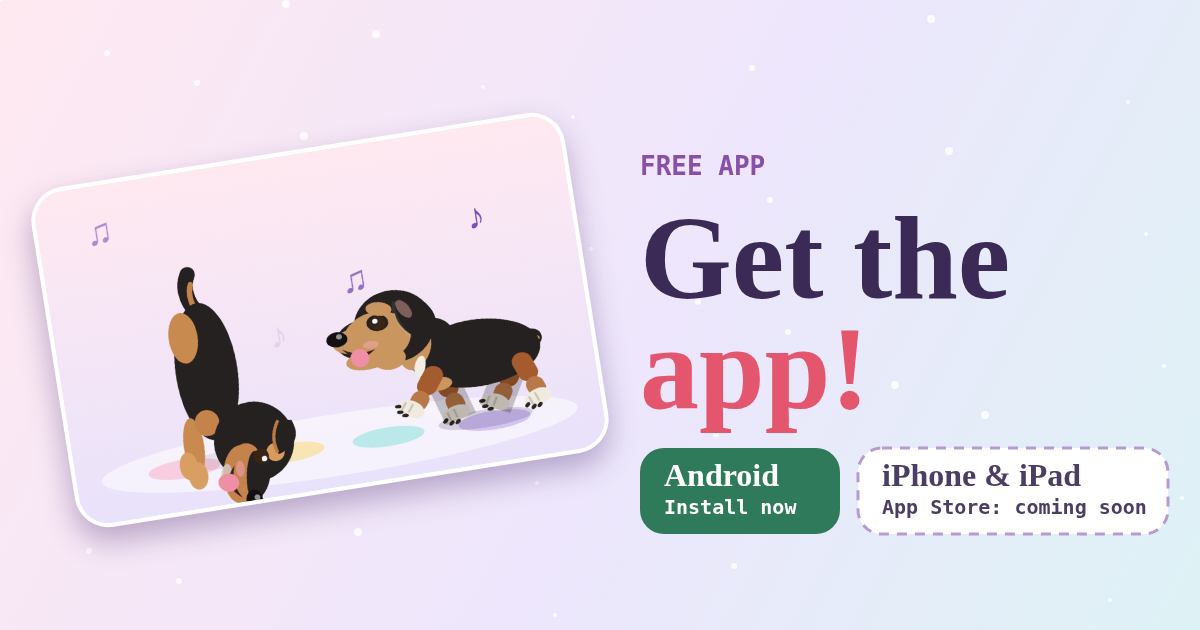
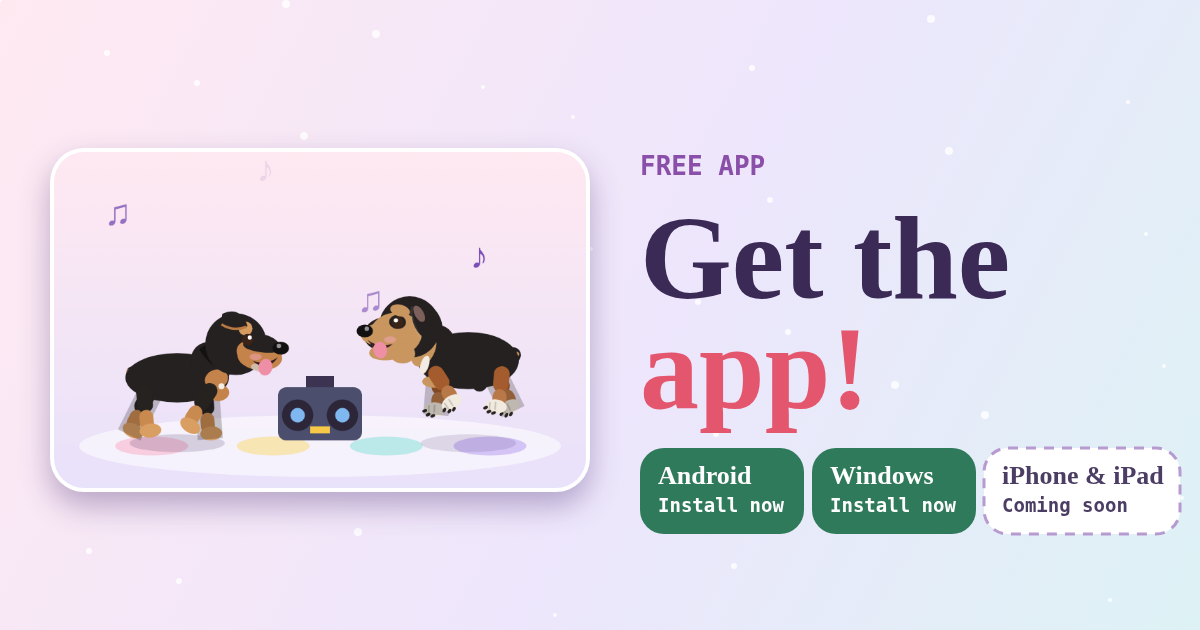
Get-the-app ad: straight picture, pups keep to their own sides of a boombox and do four different moves; tablet, laptop and desktop pass (On this page outline, keyboard shortcuts, roomier touch targets); desktop window launch settings
Claude-Session: https://claude.ai/code/session_01F11x81sfGg3qnfmPYFW4i1

diff --git a/assets/js/wide-screens.js b/assets/js/wide-screens.js
@@ -1,0 +1,132 @@
+/* wide-screens.js — a better fit for tablets, laptops and desktops (and for the installed Windows or Mac window).
+   Everything here is optional and adds to the page; with it off, every page still reads the same on a phone.
+   - On a big screen, long pages get a small "On this page" outline that sits beside the reading column, follows
+     your place with a highlight, and jumps to a section on click. It is built from the page's own h2 headings.
+   - With a keyboard: "/" opens search, "?" lists the shortcuts, "g" then "h" goes home, "g" then "s" to Start here,
+     "g" then "a" to Ask Professor Puddles, "b" opens Breathe, "a" opens Professor Puddles here, "q" toggles Quiet.
+     Shortcuts never fire while you are typing, and they are skipped on pages with their own controls (games,
+     cartoons, the teaser, soundscapes, Drift, the Night Garden).
+   - On touch tablets: a little more room for the text, larger tap targets in the menu, chips and links, and a
+     wider reading column in portrait. Reduced motion turns the smooth scrolling off.
+   Nothing is stored or sent. */
+(function () {
+  'use strict';
+  var path = location.pathname.replace(/\/index\.html$/, '/');
+  var OWN = /^\/(frequency-journey|frequency-buddies[a-z0-9-]*|pause-and-play|soundscapes|calm-visualizer|night-garden|pal-cam-tv|re-?check[a-z-]*|daily-ledger[a-z-]*|word-bloom|quiet-words|quiet-crossword|install|ask)\.html$|^\/(games|puzzles|workpapers\/fill)\//;
+  var RM = !!(window.matchMedia && matchMedia('(prefers-reduced-motion: reduce)').matches);
+  var coarse = !!(window.matchMedia && matchMedia('(pointer: coarse)').matches), fine = !!(window.matchMedia && matchMedia('(pointer: fine)').matches);
+
+  var CSS =
+    // tablets: touch screens between phone and laptop size
+    '@media (pointer:coarse) and (min-width:700px) and (max-width:1366px){' +
+      'html{ font-size:106.25%; }' +
+      'main.read{ max-width:46rem; }' +
+      '.tol-bar button, .tol-bar a, .tol-nav a, .tol-nav button, .tol-drop a{ min-height:48px; }' +
+      '.dig, .growing-chip, .sf-c, .sn-b, .tol-chip, .hh-go a, main.read ul.sh-first a{ min-height:46px; }' +
+      'main.read button, main.read .in-tab, main.read summary{ min-height:46px; }' +
+      'main.read a{ text-underline-offset:.18em; }' +
+    '}' +
+    // the outline beside long pages
+    '.tol-outline{ position:fixed; top:6.2rem; left:calc(50% + 21rem + 2rem); width:14.5rem; max-height:calc(100vh - 8.5rem); overflow:auto; z-index:20; display:none; ' +
+      'padding:.8rem .9rem .9rem; border-radius:18px; background:rgba(255,253,248,.92); border:1px solid rgba(217,200,240,.8); box-shadow:0 10px 26px -14px rgba(60,40,90,.3); font:500 .84rem/1.3 "Lora",Georgia,serif; }' +
+    '.tol-outline.is-on{ display:block; }' +
+    '.tol-outline h2{ margin:0 0 .4rem !important; font:600 .7rem "IBM Plex Mono",monospace !important; letter-spacing:.1em; text-transform:uppercase; color:#6B4F8A !important; background:none !important; box-shadow:none !important; border:0 !important; padding:0 !important; }' +
+    '.tol-outline ol{ list-style:none; margin:0 !important; padding:0 !important; }' +
+    '.tol-outline li{ margin:0 !important; padding:0 !important; max-width:none !important; background:none !important; box-shadow:none !important; border:0 !important; }' +
+    '.tol-outline a{ display:block; padding:.32rem .55rem; border-radius:10px; color:#3B2A55 !important; text-decoration:none !important; border-left:3px solid transparent; }' +
+    '.tol-outline a:hover{ background:rgba(237,227,248,.7); }' +
+    '.tol-outline a.is-here{ background:#EDE3F8; border-left-color:#8A4FA8; font-weight:700; }' +
+    '.tol-outline a:focus-visible{ outline:2px solid #3B2A55; outline-offset:1px; }' +
+    '@media (min-width:1260px){ .tol-outline.is-on{ display:block; } }' +
+    '@media (max-width:1259px){ .tol-outline{ display:none !important; } }' +
+    '@media print{ .tol-outline, .tol-keys{ display:none !important; } }' +
+    // the shortcuts list
+    '.tol-keys{ position:fixed; inset:0; z-index:2000; display:grid; place-items:center; background:rgba(20,12,40,.55); padding:1rem; }' +
+    '.tol-keys[hidden]{ display:none; }' +
+    '.tol-keys-in{ max-width:30rem; width:100%; max-height:90vh; overflow:auto; padding:1.2rem 1.3rem; border-radius:22px; background:#FFFDF8; color:#2B2140; box-shadow:0 20px 50px rgba(0,0,0,.4); font:500 1rem/1.4 "Lora",Georgia,serif; }' +
+    '.tol-keys-in h2{ margin:0 0 .6rem !important; font:700 1.3rem "Fraunces",Georgia,serif !important; background:none !important; box-shadow:none !important; border:0 !important; padding:0 !important; }' +
+    '.tol-keys-in dl{ margin:0; display:grid; grid-template-columns:auto 1fr; gap:.4rem .9rem; align-items:center; }' +
+    '.tol-keys-in dt{ white-space:nowrap; } .tol-keys-in dd{ margin:0; }' +
+    '.tol-keys-in kbd{ display:inline-block; min-width:1.6rem; padding:.1rem .45rem; text-align:center; border-radius:7px; border:1px solid #B9A0E0; border-bottom-width:3px; background:#F6F1FD; font:600 .85rem "IBM Plex Mono",monospace; }' +
+    '.tol-keys-x{ margin-top:.9rem; min-height:44px; padding:.4rem 1.1rem; border-radius:999px; border:1px solid #6B4F8A; background:#6B4F8A; color:#fff; font:inherit; cursor:pointer; }' +
+    '.tol-keys-hint{ position:fixed; left:50%; bottom:.6rem; transform:translateX(-50%); z-index:870; padding:.25rem .8rem; border-radius:999px; background:rgba(43,33,64,.78); color:#fff; font:500 .78rem "Lora",Georgia,serif; pointer-events:none; opacity:0; transition:opacity .4s; }' +
+    '.tol-keys-hint.on{ opacity:1; }';
+  function css() { if (document.getElementById('tol-wide-css')) return; var s = document.createElement('style'); s.id = 'tol-wide-css'; s.textContent = CSS; document.head.appendChild(s); }
+
+  function slug(s, used) { var b = s.toLowerCase().replace(/[^a-z0-9]+/g, '-').replace(/^-|-$/g, '').slice(0, 40) || 'section', id = b, n = 2; while (used[id] || document.getElementById(id)) id = b + '-' + n++; used[id] = 1; return id; }
+
+  // ---------- the outline
+  function outline() {
+    if (OWN.test(path) || !fine && coarse && innerWidth < 1260) return;
+    var main = document.querySelector('main.read'); if (!main) return;
+    var hs = Array.prototype.filter.call(main.querySelectorAll('h2'), function (h) { return h.textContent.trim().length > 2 && !h.closest('aside, nav, .tol-keys, .sx-safe, .tol-outline, [data-teaser], .cb-end, .bb-end, .appad, .tol-pud-card'); });
+    if (hs.length < 4 || main.textContent.length < 3500) return;
+    var used = {}, items = hs.slice(0, 18).map(function (h) { if (!h.id) h.id = slug(h.textContent, used); return { h: h, id: h.id, t: h.textContent.replace(/\s+/g, ' ').trim().replace(/[.:]$/, '') }; });
+    var nav = document.createElement('nav'); nav.className = 'tol-outline no-bubble'; nav.setAttribute('aria-label', 'On this page');
+    nav.innerHTML = '<h2>On this page</h2><ol>' + items.map(function (i) { return '<li><a href="#' + i.id + '">' + i.t.replace(/</g, '&lt;') + '</a></li>'; }).join('') + '</ol>';
+    document.body.appendChild(nav);
+    var links = Array.prototype.slice.call(nav.querySelectorAll('a'));
+    nav.addEventListener('click', function (e) {
+      var a = e.target.closest('a'); if (!a) return; var t = document.getElementById(a.getAttribute('href').slice(1)); if (!t) return;
+      e.preventDefault(); t.scrollIntoView({ block: 'start', behavior: RM ? 'auto' : 'smooth' }); try { history.replaceState(null, '', '#' + t.id); } catch (er) {}
+      t.setAttribute('tabindex', '-1'); try { t.focus({ preventScroll: true }); } catch (er) {}
+    });
+    function place() { var r = main.getBoundingClientRect(); nav.style.left = Math.round(r.right + 28) + 'px'; nav.classList.toggle('is-on', innerWidth >= 1260 && r.right + 28 + 232 < innerWidth); }
+    function here() {
+      var y = innerHeight * 0.3, cur = items[0];
+      items.forEach(function (i) { if (i.h.getBoundingClientRect().top <= y) cur = i; });
+      links.forEach(function (a) { var on = a.getAttribute('href') === '#' + cur.id; a.classList.toggle('is-here', on); if (on) a.setAttribute('aria-current', 'location'); else a.removeAttribute('aria-current'); });
+      if (nav.classList.contains('is-on')) { var on = nav.querySelector('.is-here'); if (on) { var nr = nav.getBoundingClientRect(), ar = on.getBoundingClientRect(); if (ar.top < nr.top + 30 || ar.bottom > nr.bottom - 10) nav.scrollTop += ar.top - nr.top - nr.height / 2; } }
+    }
+    var tick = 0; function onScroll() { if (tick) return; tick = requestAnimationFrame(function () { tick = 0; here(); }); }
+    window.addEventListener('scroll', onScroll, { passive: true }); window.addEventListener('resize', function () { place(); here(); }); place(); here();
+  }
+
+  // ---------- the keyboard
+  var KEYS = [['/', 'Search the site'], ['?', 'Show this list'], ['g then h', 'Go to the home page'], ['g then s', 'Go to Start here'], ['g then a', 'Go to Ask Professor Puddles'], ['a', 'Open Professor Puddles on this page'], ['b', 'Open Breathe, a one-minute calm break'], ['q', 'Quiet mode on or off'], ['Esc', 'Close whatever is open']];
+  var dlg = null, lastTrigger = null, gAt = 0;
+  function typing(t) { return t && (/^(INPUT|TEXTAREA|SELECT)$/.test(t.tagName) || t.isContentEditable); }
+  function openKeys() {
+    if (!dlg) {
+      dlg = document.createElement('div'); dlg.className = 'tol-keys no-bubble'; dlg.hidden = true; dlg.setAttribute('role', 'dialog'); dlg.setAttribute('aria-modal', 'true'); dlg.setAttribute('aria-labelledby', 'tol-keys-h');
+      dlg.innerHTML = '<div class="tol-keys-in"><h2 id="tol-keys-h">Keyboard shortcuts</h2><dl>' + KEYS.map(function (k) { return '<dt>' + k[0].split(' then ').map(function (x) { return '<kbd>' + x + '</kbd>'; }).join(' then ') + '</dt><dd>' + k[1] + '</dd>'; }).join('') + '</dl><button type="button" class="tol-keys-x">Close</button></div>';
+      document.body.appendChild(dlg);
+      dlg.addEventListener('click', function (e) { if (e.target === dlg || e.target.closest('.tol-keys-x')) closeKeys(); });
+    }
+    lastTrigger = document.activeElement; dlg.hidden = false; var b = dlg.querySelector('.tol-keys-x'); if (b) b.focus();
+  }
+  function closeKeys() { if (dlg && !dlg.hidden) { dlg.hidden = true; if (lastTrigger && lastTrigger.focus) try { lastTrigger.focus(); } catch (e) {} } }
+  function click(sel) { var n = document.querySelector(sel); if (n) { n.click(); return true; } return false; }
+  function keyboard() {
+    if (!fine || OWN.test(path)) return;
+    document.addEventListener('keydown', function (e) {
+      if (e.defaultPrevented) return;
+      if (e.key === 'Escape') { closeKeys(); return; }
+      if (e.ctrlKey || e.metaKey || e.altKey || typing(e.target)) return;
+      if (dlg && !dlg.hidden) { if (e.key === 'Tab') { e.preventDefault(); dlg.querySelector('.tol-keys-x').focus(); } return; }
+      var k = e.key, now = Date.now();
+      if (gAt && now - gAt < 1200) {
+        gAt = 0; var go = { h: '/', s: '/start-here.html', a: '/ask.html' }[k.toLowerCase()]; if (go) { e.preventDefault(); location.href = go; return; }
+      }
+      if (k === '/') { if (click('.tol-search-btn')) { e.preventDefault(); } }
+      else if (k === '?') { e.preventDefault(); openKeys(); }
+      else if (k === 'g' || k === 'G') { gAt = now; }
+      else if (k === 'b' || k === 'B') { if (click('.tol-breathe-btn')) e.preventDefault(); }
+      else if (k === 'a' || k === 'A') { if (click('.tol-pud-fab')) e.preventDefault(); }
+      else if (k === 'q' || k === 'Q') { if (click('.tol-bar-quiet')) e.preventDefault(); }
+    });
+    // a one-time whisper that the shortcuts exist, for people with a keyboard
+    var seen = false; try { seen = sessionStorage.getItem('tol-keys-hint') === '1'; } catch (e) {}
+    if (!seen && innerWidth >= 900) {
+      var onKey = function () { document.removeEventListener('keydown', onKey); };
+      setTimeout(function () {
+        var h = document.createElement('div'); h.className = 'tol-keys-hint'; h.setAttribute('aria-hidden', 'true'); h.textContent = 'Tip: press ? for keyboard shortcuts'; document.body.appendChild(h);
+        requestAnimationFrame(function () { h.classList.add('on'); }); setTimeout(function () { h.classList.remove('on'); setTimeout(function () { h.remove(); }, 500); }, 3600);
+        try { sessionStorage.setItem('tol-keys-hint', '1'); } catch (e) {}
+      }, 2500);
+    }
+  }
+
+  function start() { css(); outline(); keyboard(); }
+  if (document.readyState === 'loading') document.addEventListener('DOMContentLoaded', start); else start();
+})();

diff --git a/assets/js/app-ad.js b/assets/js/app-ad.js
@@ -1,4 +1,4 @@
-/* app-ad.js — the "Get the app" ad: Tidbit and Sugarfoot, tilted sideways and bouncing, moonwalking and break dancing.
+/* app-ad.js — the "Get the app" ad: Tidbit and Sugarfoot on a straight stage, each keeping to their own side of a little boombox, moonwalking, spinning, flipping and hopping.
    It sits under the opening block of the home page and Start here, links to /install.html, and offers a choice at the
    top: Android (install now) or iPhone (App Store, coming soon). It can be hidden (remembered on this device only,
    key 'tol-appad-off'), is skipped inside the installed app and on the install page, and is a still picture with
@@ -14,8 +14,8 @@
   function mix(a, b, k) { return a + (b - a) * k; }
 
   // ---------------------------------------------------------------- the dancing (a stage 190 wide, 120 tall)
-  var VW = 190, VH = 120, FLOOR = 102, CYCLE = 9000;
-  var SAYS = [['Moonwalk!', 'Smooth…'], ['Spin!', 'Whoa!'], ['Get the app!', 'Woof!']];
+  var VW = 190, VH = 120, FLOOR = 102, ACT = 3000, NACT = 4, CYCLE = ACT * NACT;
+  var SAYS = [['Moonwalk!', 'Smooth…'], ['Windmill!', 'The worm!'], ['Freeze!', 'Flip!'], ['Get the app!', 'Woof!']];
   function pup(c, P, who, x, y, s, o) {
     var L = who === 'tidbit' ? P.looks.collar : P.looks.drop, face = o.face === undefined ? 1 : o.face;
     c.save(); c.translate(x, y - (o.lift || 0)); c.scale(face * s, (o.sy || 1) * s);
@@ -25,8 +25,16 @@
   }
   function shadow(c, x, w, k) { c.fillStyle = 'rgba(60,40,90,' + (0.18 * k).toFixed(3) + ')'; c.beginPath(); c.ellipse(x, FLOOR + 2, w, 3.2, 0, 0, TAU); c.fill(); }
   function note(c, x, y, a, ch) { c.save(); c.globalAlpha = a; c.fillStyle = '#7A4FB5'; c.font = '700 13px Georgia, serif'; c.textAlign = 'center'; c.fillText(ch, x, y); c.restore(); }
+  // a little boombox in the middle keeps the two apart, and pulses to the beat
+  function boombox(c, t) {
+    var pulse = Math.max(0, Math.sin(t / 250 * TAU / 2)), x = VW / 2, y = FLOOR + 3;
+    c.fillStyle = '#4B4E6D'; c.beginPath(); c.roundRect ? c.roundRect(x - 15, y - 21, 30, 19, 3) : c.rect(x - 15, y - 21, 30, 19); c.fill();
+    c.fillStyle = '#3C3350'; c.fillRect(x - 5, y - 25, 10, 4);
+    for (var k = -1; k <= 1; k += 2) { c.fillStyle = '#2C2638'; c.beginPath(); c.arc(x + k * 8, y - 11, 5.6 + pulse * 1.2, 0, TAU); c.fill(); c.fillStyle = '#7FB8F0'; c.beginPath(); c.arc(x + k * 8, y - 11, 2.6 + pulse * 0.8, 0, TAU); c.fill(); }
+    c.fillStyle = '#F7C948'; c.fillRect(x - 3.5, y - 7, 7, 2.5);
+  }
   // which act, and how far into it, at time t (ms)
-  function actAt(t) { t = Math.max(0, t); var m = t % CYCLE, a = Math.floor(m / 3000); return { a: a, u: (m - a * 3000) / 3000, said: SAYS[a] }; }
+  function actAt(t) { t = Math.max(0, t); var m = t % CYCLE, a = Math.floor(m / ACT); return { a: a, u: (m - a * ACT) / ACT, said: SAYS[a] }; }
   function drawScene(c, W, H, t, opts) {
     var P = window.TOLPups; if (!P) return;
     opts = opts || {}; var still = !!opts.still, k = Math.min(W / VW, H / VH);
@@ -38,34 +46,33 @@
     // the dance floor: a little disco circle of light
     c.fillStyle = 'rgba(255,255,255,.55)'; c.beginPath(); c.ellipse(VW / 2, FLOOR + 3, 86, 11, 0, 0, TAU); c.fill();
     var cols = ['#F7A8C2', '#F8D76A', '#7FE0D7', '#B296F0']; for (var i = 0; i < 4; i++) { c.fillStyle = cols[i]; c.globalAlpha = 0.5; c.beginPath(); c.ellipse(VW / 2 - 60 + i * 40 + (still ? 0 : Math.sin(t / 300 + i) * 4), FLOOR + 3, 13, 3.4, 0, 0, TAU); c.fill(); } c.globalAlpha = 1;
-    var A = actAt(still ? 0 : t), u = A.u, T = { x: 60 }, S = { x: 130 }, ph = t / 95;
-    var tp = { who: 'tidbit', x: 62, lift: 0, pose: 'sit', face: 1, ph: 0, t: t, wag: Math.sin(t / 140) * 0.5 }, sp = { who: 'sugarfoot', x: 128, lift: 0, pose: 'sit', face: -1, ph: 0, t: t, wag: Math.sin(t / 150) * 0.5 };
-    if (still) { tp.x = 70; sp.x = 120; tp.pose = 'bow'; sp.pose = 'sit'; }
+    boombox(c, still ? 0 : t);
+    var A = actAt(still ? 0 : t), u = A.u, ph = t / 95, TX = 44, SX = 148;   // Tidbit keeps the left side, Sugarfoot the right
+    var tp = { x: TX, lift: 0, pose: 'sit', face: 1, ph: 0, t: t, wag: Math.sin(t / 140) * 0.5 }, sp = { x: SX, lift: 0, pose: 'sit', face: -1, ph: 0, t: t, wag: Math.sin(t / 150) * 0.5 };
+    var beat = Math.abs(Math.sin(t / 300));
+    if (still) { tp.pose = 'bow'; sp.pose = 'sit'; }
     else if (A.a === 0) {
-      // the moonwalk: they face one way and glide the other, legs going, with a little hop on the beat
-      var glide = ease(u);
-      tp.pose = sp.pose = 'run'; tp.face = sp.face = 1; tp.ph = sp.ph = ph;
-      tp.x = mix(130, 46, glide); sp.x = mix(200, 120, glide);
-      tp.lift = Math.abs(Math.sin(t / 150)) * 2.5; sp.lift = Math.abs(Math.sin(t / 150 + 1)) * 2.5; tp.tilt = Math.sin(t / 120) * 0.14; sp.tilt = Math.sin(t / 120 + 1) * 0.14;
-      if (u > 0.9) { tp.pose = sp.pose = 'sit'; }
+      // Sugarfoot moonwalks: she faces the music and glides away from it, legs going; Tidbit bops on the beat
+      var glide = ease(u); sp.pose = 'run'; sp.face = -1; sp.ph = ph; sp.x = mix(130, 154, glide); sp.lift = beat * 2.2; sp.tilt = Math.sin(t / 120) * 0.12;
+      tp.pose = 'wiggle'; tp.ph = ph; tp.wag = 3; tp.lift = beat * 5; tp.x = TX + Math.sin(t / 380) * 6;
+      if (u > 0.88) sp.pose = 'sit';
     } else if (A.a === 1) {
-      // Tidbit spins on her back (the windmill); Sugarfoot does the worm
-      var sp1 = ease(clamp((u - 0.1) / 0.75, 0, 1));
-      tp.x = 56; tp.face = 1;
-      if (u < 0.1) { tp.pose = 'sit'; }
-      else if (u < 0.85) { tp.pose = 'lie'; tp.rot = TAU * 3 * sp1; tp.lift = 7 + 5 * Math.abs(Math.sin(t / 110)); }
-      else { tp.pose = 'bow'; }
-      sp.pose = 'wiggle'; sp.x = 134 + Math.sin(t / 130) * 14; sp.sy = 1 - 0.1 * Math.abs(Math.sin(t / 130)); sp.wag = 3; sp.ph = ph; sp.face = -1;
+      // Tidbit spins on her back, the windmill; Sugarfoot does the worm
+      var sp1 = ease(clamp((u - 0.08) / 0.77, 0, 1));
+      if (u < 0.08) tp.pose = 'sit'; else if (u < 0.85) { tp.pose = 'lie'; tp.rot = TAU * 3 * sp1; tp.lift = 7 + 5 * Math.abs(Math.sin(t / 110)); } else tp.pose = 'bow';
+      sp.pose = 'wiggle'; sp.x = SX + Math.sin(t / 130) * 9; sp.sy = 1 - 0.1 * Math.abs(Math.sin(t / 130)); sp.wag = 3; sp.ph = ph;
+    } else if (A.a === 2) {
+      // Tidbit freezes with her tail up; Sugarfoot does a backflip, then they bow to each other
+      tp.pose = 'bow'; tp.wag = 2.5; tp.x = 32; sp.x = 158;
+      if (u > 0.2 && u < 0.62) { var f = (u - 0.2) / 0.42; sp.rot = -TAU * f; sp.lift = Math.sin(f * Math.PI) * 30; sp.pose = 'run'; sp.ph = ph; }
+      else if (u >= 0.62) { sp.pose = 'bow'; sp.wag = 2.5; }
     } else {
-      // Tidbit freezes; Sugarfoot flips; then both wiggle
-      tp.x = 54; tp.pose = u < 0.7 ? 'bow' : 'wiggle'; tp.wag = 3;
-      if (u > 0.25 && u < 0.6) { var f = (u - 0.25) / 0.35; sp.rot = -TAU * f; sp.lift = Math.sin(f * Math.PI) * 28; sp.pose = 'run'; sp.ph = ph; sp.x = 138 - 12 * f; }
-      else if (u >= 0.6) { sp.pose = 'wiggle'; sp.x = 126 + Math.sin(t / 120) * 5; sp.wag = 3; sp.ph = ph; }
-      else sp.pose = 'sit';
-      if (u >= 0.7) { tp.x = 54 + Math.sin(t / 120) * 5; tp.ph = ph; }
+      // both hop to the beat, one after the other, each on their own side
+      tp.pose = sp.pose = 'wiggle'; tp.ph = sp.ph = ph; tp.wag = sp.wag = 3.5;
+      tp.lift = Math.abs(Math.sin(t / 240)) * 9; sp.lift = Math.abs(Math.sin(t / 240 + 1.57)) * 9;
     }
     shadow(c, tp.x, 17, 1 - clamp((tp.lift || 0) / 24, 0, 0.6)); shadow(c, sp.x, 17, 1 - clamp((sp.lift || 0) / 36, 0, 0.6));
-    var sc = 1.3; pup(c, P, 'tidbit', tp.x, FLOOR, sc, tp); pup(c, P, 'sugarfoot', sp.x, FLOOR, sc, sp);
+    var sc = 1.0; pup(c, P, 'tidbit', tp.x, FLOOR, sc, tp); pup(c, P, 'sugarfoot', sp.x, FLOOR, sc, sp);
     // music notes drifting up
     if (!still) for (var n = 0; n < 4; n++) { var q = ((t / 2400) + n / 4) % 1; note(c, 30 + n * 42 + Math.sin(q * 6 + n) * 8, 70 - q * 62, Math.sin(q * Math.PI), n % 2 ? '♪' : '♫'); }
     c.restore();
@@ -134,15 +141,15 @@
     function frame(now) {
       raf = 0; if (!vis || document.hidden) return;
       var t = Math.max(0, now - t0), A = drawScene(g, cv.width, cv.height, t);
-      // the whole picture leans sideways and bounces to the beat
-      var bounce = Math.abs(Math.sin(t / 260)) * -7, lean = -9 + Math.sin(t / 520) * 3;
-      tilt.style.transform = 'translateY(' + bounce.toFixed(1) + 'px) rotate(' + lean.toFixed(1) + 'deg)';
+      // the picture stays straight and bounces a little to the beat
+      var bounce = Math.abs(Math.sin(t / 300)) * -4;
+      tilt.style.transform = 'translateY(' + bounce.toFixed(1) + 'px)';
       if (A) { var s = A.u < 0.5 ? A.said[0] : A.said[1]; if (s !== lastSay) { lastSay = s; say.textContent = s; } }
       raf = requestAnimationFrame(frame);
     }
     function stopLoop() { if (raf) cancelAnimationFrame(raf); raf = 0; }
     function startLoop() { if (!raf && !RM) raf = requestAnimationFrame(frame); }
-    function still() { drawScene(g, cv.width, cv.height, 0, { still: true }); tilt.style.transform = 'rotate(-8deg)'; say.textContent = 'Get the app!'; }
+    function still() { drawScene(g, cv.width, cv.height, 0, { still: true }); tilt.style.transform = 'none'; say.textContent = 'Get the app!'; }
     function go() {
       if (!window.TOLPups) { setTimeout(go, 150); return; }
       if (RM) { still(); return; }

diff --git a/assets/js/site.js b/assets/js/site.js
@@ -2821,6 +2821,8 @@
     // Brain Breakers: the bold card on the home page, and a "Brain Break" card ending each program page
     var BB_PAGE = /^\/(index|start-in-10-minutes|invisible-labor-mental-load|chore-chart-for-couples|how-to-stop-fighting-with-your-partner|neurodivergent-relationships|communication-style-quiz|check-ins|turning-toward|complacency|wired-differently|love-languages|share-the-load|new-parent|co-parenting|prog-01)(-in-depth)?\.html$|^\/(book|workpapers)\/(?!fill\/)/;
     if ((current === '/index.html' || BB_PAGE.test(current)) && !document.querySelector('meta[http-equiv="Content-Security-Policy"]')) { var bbs = document.createElement('script'); bbs.src = '/assets/js/brain-breaks.js'; bbs.defer = true; document.head.appendChild(bbs); }
+    // tablets, laptops and desktops: an "On this page" outline, keyboard shortcuts, roomier touch targets (wide-screens.js)
+    { var wsc = document.createElement('script'); wsc.src = '/assets/js/wide-screens.js'; wsc.defer = true; document.head.appendChild(wsc); }
     // phones: a "turn sideways" hint under big pictures, and full screen asks for landscape
     if (/^\/(soundscapes|frequency-buddies[a-z0-9-]*|calm-visualizer|night-garden|pal-cam-tv)\.html$/.test(current)) { var tsw = document.createElement('script'); tsw.src = '/assets/js/turn-sideways.js'; tsw.defer = true; document.head.appendChild(tsw); }
     if (location.hash) { var t = document.getElementById(location.hash.slice(1)); if (t) t.scrollIntoView(); }

diff --git a/install.html b/install.html
@@ -121,7 +121,7 @@
     <button type="button" class="in-btn" id="in-btn" hidden>Install the app</button>
   </div>
 
-  <h2 id="chrome">Install it with Chrome on Android</h2>
+  <h2 id="chrome">Install it with Chrome on an Android phone or tablet</h2>
   <ol class="in-steps no-bubble">
     <li>Open <strong>spreadloveandacceptance.com</strong> in <strong>Chrome</strong>. Use a normal tab, not an Incognito one.</li>
     <li>Tap the <strong>three dots</strong> <span aria-hidden="true">(&#8942;)</span> at the top right of Chrome.</li>
